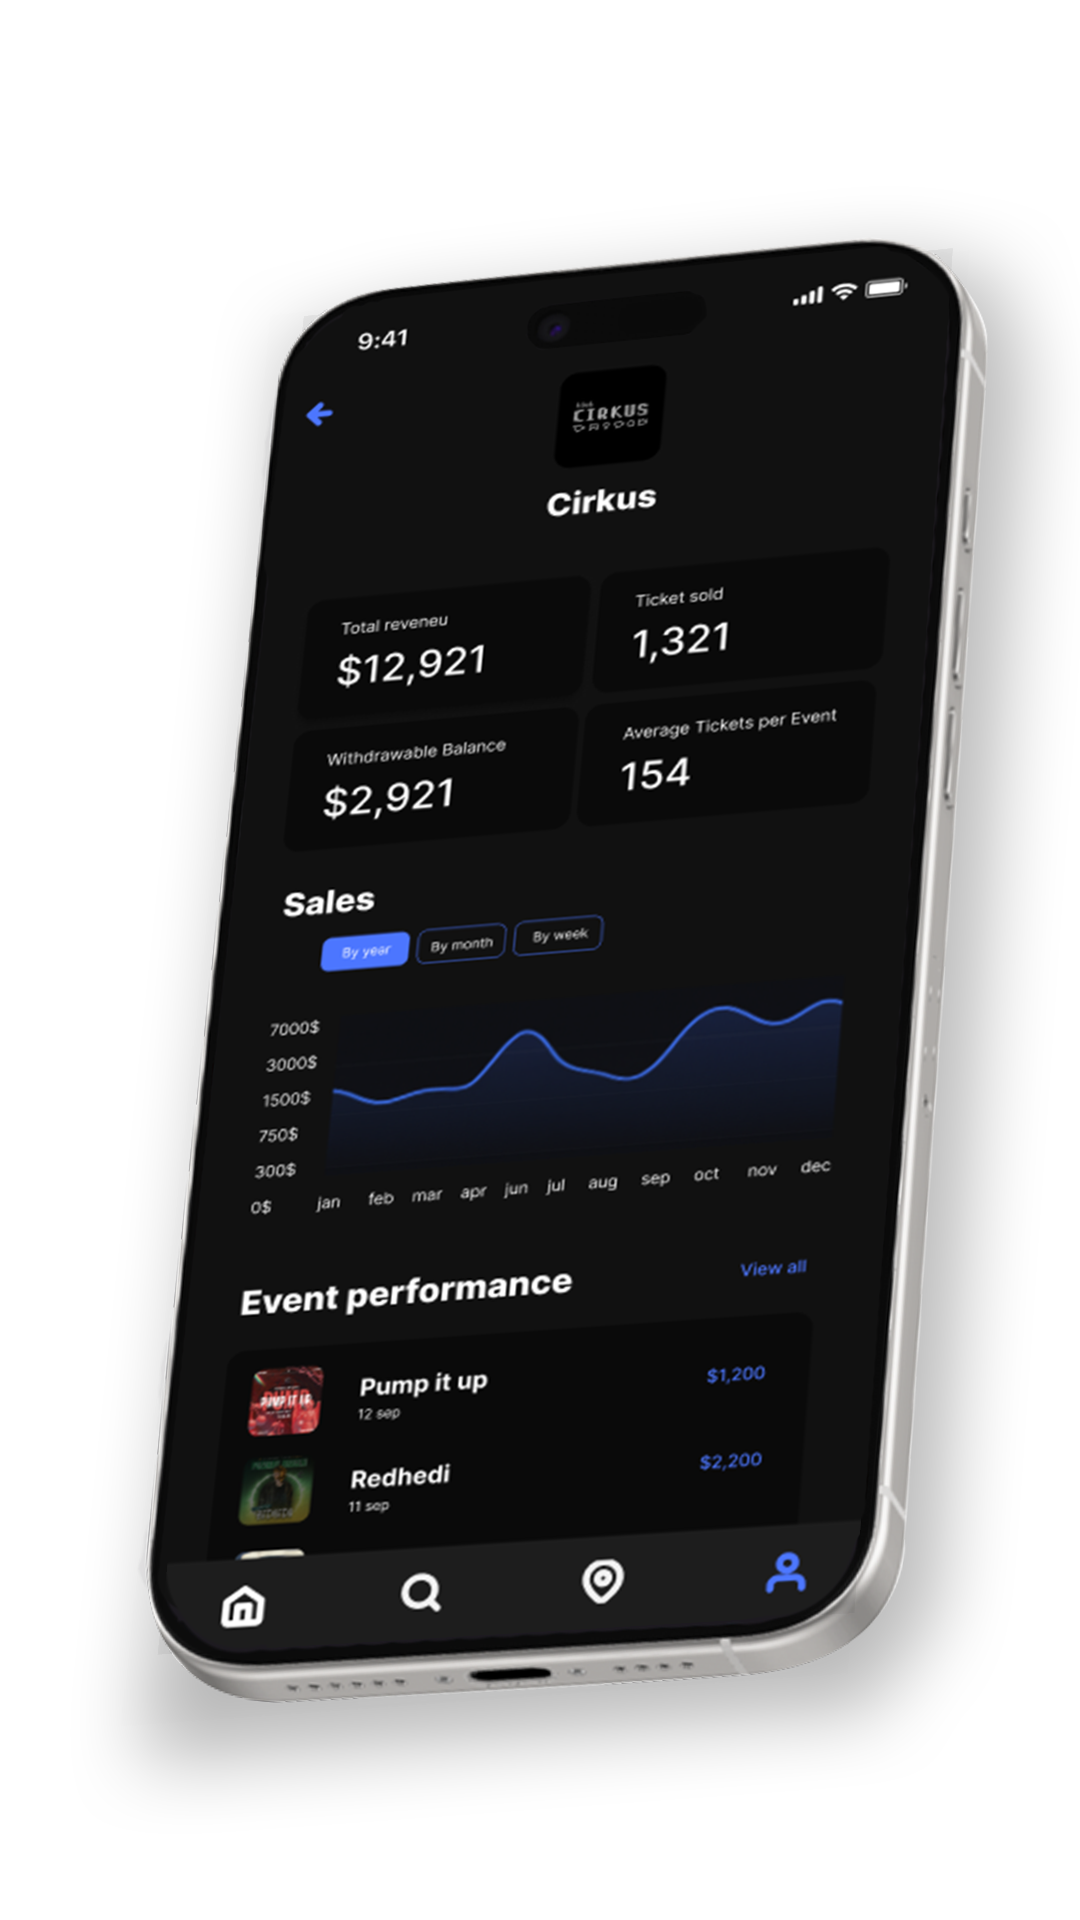
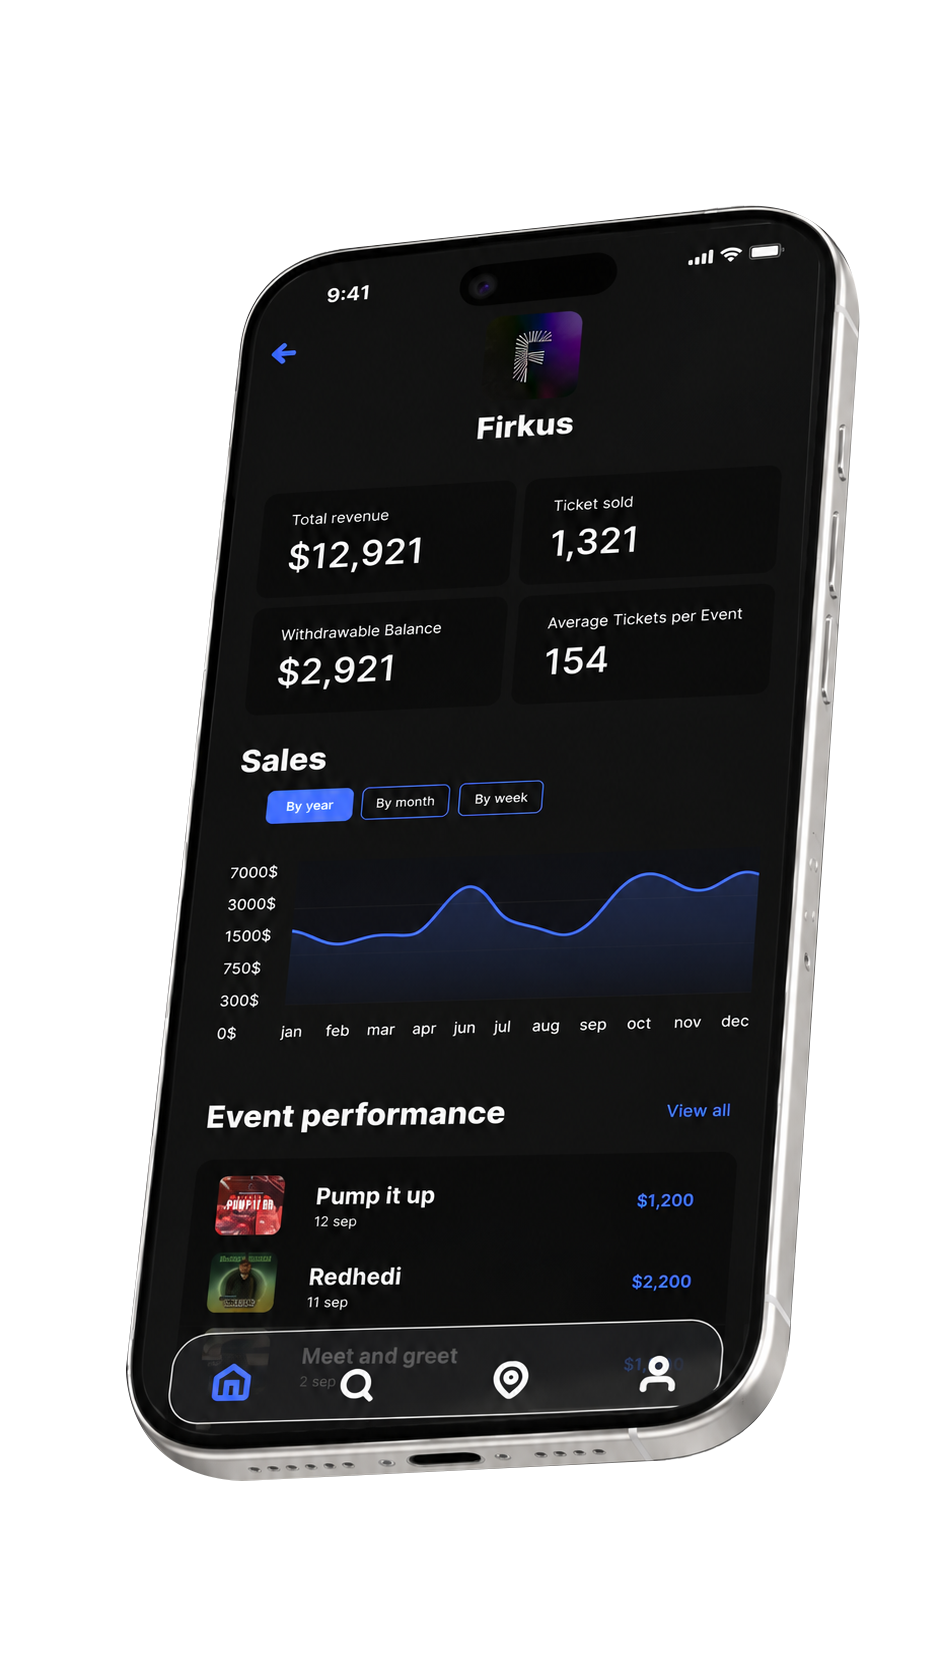
Waitlist: shranjevanje v Supabase, realtime seznam, nove app slike

diff --git a/waitlist.js b/waitlist.js
@@ -12,8 +12,9 @@
   /* ---------------------------------------------------------------
      Konstante
   ---------------------------------------------------------------- */
-  const FETCH_LIMIT   = 12;      // koliko prijav preberemo iz baze
+  const FETCH_LIMIT   = 25;      // koliko prijav preberemo iz baze (seznam se scrolla)
   const MOBILE_MQ     = window.matchMedia("(max-width: 600px)");
+  const DESKTOP_MQ    = window.matchMedia("(min-width: 981px)");
   const POLL_MS       = 15000;   // fallback osveževanje, če realtime ne steče
   const CLOCK_MS      = 60000;   // osveževanje relativnih časov ("2m ago")
 
@@ -31,6 +32,9 @@
   const labelEl  = document.getElementById("waitlistLabel");
   const moreEl   = document.getElementById("waitlistMore");
   const liveEl   = document.getElementById("waitlistLive");
+  const formBox  = document.querySelector(".waitlist__form");
+  const copyBox  = document.querySelector(".waitlist__copy");
+  const gridBox  = document.querySelector(".waitlist");
 
   if (!form) return;
 
@@ -50,10 +54,45 @@
   /* ---------------------------------------------------------------
      Pomožne funkcije
   ---------------------------------------------------------------- */
-  // Na telefonu prikažemo krajši seznam, da ne nastane neskončen scroll.
+  // Na telefonu prikažemo malo krajši seznam; višino omeji CSS (scroll območje).
   function visibleLimit() {
-    return MOBILE_MQ.matches ? 8 : FETCH_LIMIT;
+    return MOBILE_MQ.matches ? 15 : FETCH_LIMIT;
   }
+
+  /* Na desktopu panel s seznamom spodaj poravnamo s formo.
+     Sam CSS tega ne zmore: mreža brez določene višine se vedno razteza po
+     vsebini seznama (tudi `1fr` se v takem primeru obnaša kot max-content).
+
+     Postavitev na desktopu:
+        vrstica 1 = besedilo            (višina copyBox)
+        razmik    = row-gap mreže
+        vrstica 2 = margin panela + panel
+        forma     = sega čez obe vrstici
+
+     Da se spodnja robova ujameta, mora veljati:
+        višina forme = copy + gap + margin + višina panela
+     Iz tega neposredno izračunamo višino panela — brez merjenja panela
+     samega, zato ni povratne zanke in ni potrebe po večkratnem popravljanju. */
+  function alignPanelToForm() {
+    if (!panel || !formBox || !copyBox || !gridBox || panel.hidden) return;
+
+    if (!DESKTOP_MQ.matches) {
+      panel.style.height = "";                     // na telefonu višino ureja CSS
+      return;
+    }
+
+    const gs     = getComputedStyle(gridBox);
+    const gap    = parseFloat(gs.rowGap) || 0;
+    const mt     = parseFloat(getComputedStyle(panel).marginTop) || 0;
+    const formH  = formBox.getBoundingClientRect().height;
+    const copyH  = copyBox.getBoundingClientRect().height;
+
+    const next = Math.max(150, Math.round(formH - copyH - gap - mt));
+    if (Math.abs(parseFloat(panel.style.height) - next) < 1) return;
+    panel.style.height = next + "px";
+  }
+
+  const onLayoutChange = () => alignPanelToForm();
 
   function setMsg(text, kind) {
     if (!msg) return;
@@ -100,6 +139,8 @@
     if (countEl) countEl.textContent = total.toLocaleString("en-US");
     if (labelEl) labelEl.textContent = total === 1 ? "person is already in" : "people are already in";
 
+    const keepScroll = listEl.scrollTop;
+
     listEl.innerHTML = "";
     rows.slice(0, visibleLimit()).forEach((row) => {
       const li = document.createElement("li");
@@ -116,6 +157,9 @@
       listEl.appendChild(li);
     });
 
+    // Ob novi prijavi pokažemo vrh seznama, sicer ostanemo, kjer je bil uporabnik.
+    listEl.scrollTop = (newIds && newIds.size) ? 0 : keepScroll;
+
     const rest = total - Math.min(rows.length, visibleLimit());
     if (moreEl) {
       if (rest > 0) {
@@ -127,6 +171,7 @@
     }
 
     if (panel) panel.hidden = false;
+    alignPanelToForm();
   }
 
   function refreshClock() {
@@ -302,6 +347,16 @@
     const onMq = () => render();
     if (MOBILE_MQ.addEventListener) MOBILE_MQ.addEventListener("change", onMq);
     else MOBILE_MQ.addListener(onMq);
+
+    // Poravnava panela s formo: ob spremembi širine okna in kadar forma
+    // spremeni višino (npr. ko se pod gumbom izpiše sporočilo).
+    window.addEventListener("resize", onLayoutChange);
+    window.addEventListener("orientationchange", onLayoutChange);
+    if (DESKTOP_MQ.addEventListener) DESKTOP_MQ.addEventListener("change", onLayoutChange);
+    else DESKTOP_MQ.addListener(onLayoutChange);
+    if (window.ResizeObserver && formBox) {
+      new ResizeObserver(onLayoutChange).observe(formBox);
+    }
 
     // Po vrnitvi na zavihek osveži takoj (realtime je med sleepom lahko padel).
     document.addEventListener("visibilitychange", () => {

diff --git a/styles.css b/styles.css
@@ -1132,11 +1132,29 @@
 .people__list {
   list-style: none;
   margin: 0;
-  padding: 0;
+  padding: 0 6px 0 0;          /* prostor za drsnik */
   display: flex;
   flex-direction: column;
   gap: 6px;
+
+  /* Okvir ostane enako velik, ne glede na to koliko ljudi se pridruži. */
+  max-height: 320px;
+  overflow-y: auto;
+  overscroll-behavior: contain;      /* scroll se ne prenese na stran */
+  -webkit-overflow-scrolling: touch;
+  scrollbar-width: thin;
+  scrollbar-color: rgba(255,255,255,.16) transparent;
 }
+.people__list::-webkit-scrollbar { width: 6px; }
+.people__list::-webkit-scrollbar-track { background: transparent; }
+.people__list::-webkit-scrollbar-thumb {
+  background: rgba(255,255,255,.14);
+  border-radius: 999px;
+}
+.people__list::-webkit-scrollbar-thumb:hover { background: rgba(255,255,255,.24); }
+
+/* Vrstice se ne stiskajo, ko jih je v scroll območju več */
+.people__list > .person { flex: 0 0 auto; }
 
 .person {
   display: flex;
@@ -1220,6 +1238,45 @@
   .people__live.is-live i { animation: none; }
 }
 
+/* --- Desktop: seznam v levi stolpec, takoj pod besedilo --- */
+@media (min-width: 981px) {
+  .waitlist {
+    grid-template-rows: auto auto;
+    align-items: start;
+  }
+  .waitlist__copy { grid-column: 1; grid-row: 1; }
+  .waitlist__form { grid-column: 2; grid-row: 1 / span 2; }
+
+  /* Višino panela nastavi waitlist.js, da se spodaj natanko poravna s formo
+     (CSS tega sam ne zna izračunati — mreža brez fiksne višine se razteza
+     po vsebini). Vrednost spodaj je samo varovalka, če JS ne steče. */
+  .waitlist__people {
+    grid-column: 1;
+    grid-row: 2;
+    margin-top: 4px;
+    display: flex;
+    flex-direction: column;
+    min-height: 0;
+    overflow: hidden;
+  }
+
+  /* Seznam vzame ves prostor, ki ostane med glavo panela in "+ X others". */
+  .people__list {
+    flex: 1 1 auto;
+    max-height: none;
+    min-height: 0;
+    gap: 5px;
+  }
+
+  /* Na desktopu so vrstice nižje, da se v poravnano višino izrišejo 4 osebe.
+     Na telefonu ostanejo večje (lažji tap target). */
+  .people__list .person { min-height: 32px; padding: 4px 9px; gap: 9px; }
+  .people__list .person__avatar { width: 22px; height: 22px; font-size: 11px; }
+  .people__list .person__mail { font-size: 12.5px; }
+  .people__list .person__time { font-size: 10.5px; }
+  .people__list .person__tag { padding: 2px 6px; font-size: 9.5px; }
+}
+
 /* --- Telefoni (iPhone SE → Pro Max) ---------------------- */
 @media (max-width: 700px) {
   .waitlist { padding-top: 16px; padding-bottom: 16px; gap: 14px; }
@@ -1231,6 +1288,8 @@
   .waitlist__form .field input { scroll-margin: 100px 0 24px; }
 
   .waitlist__people { padding: 12px; }
+
+  .people__list { max-height: min(300px, 42svh); }
 
   .person { padding: 8px; gap: 8px; }
   .person__mail { font-size: 12.5px; }

diff --git a/index.html b/index.html
@@ -304,9 +304,6 @@
         <div class="waitlist__copy">
           <p class="kicker">WAITLIST</p>
           <h2>Join the waitlist for <span class="accent">Outly</span>.</h2>
-          <p class="section__sub">
-            No spam. You’ll be the first to know when we launch in your city.
-          </p>
         </div>
 
         <form class="waitlist__form" id="waitlistForm">
